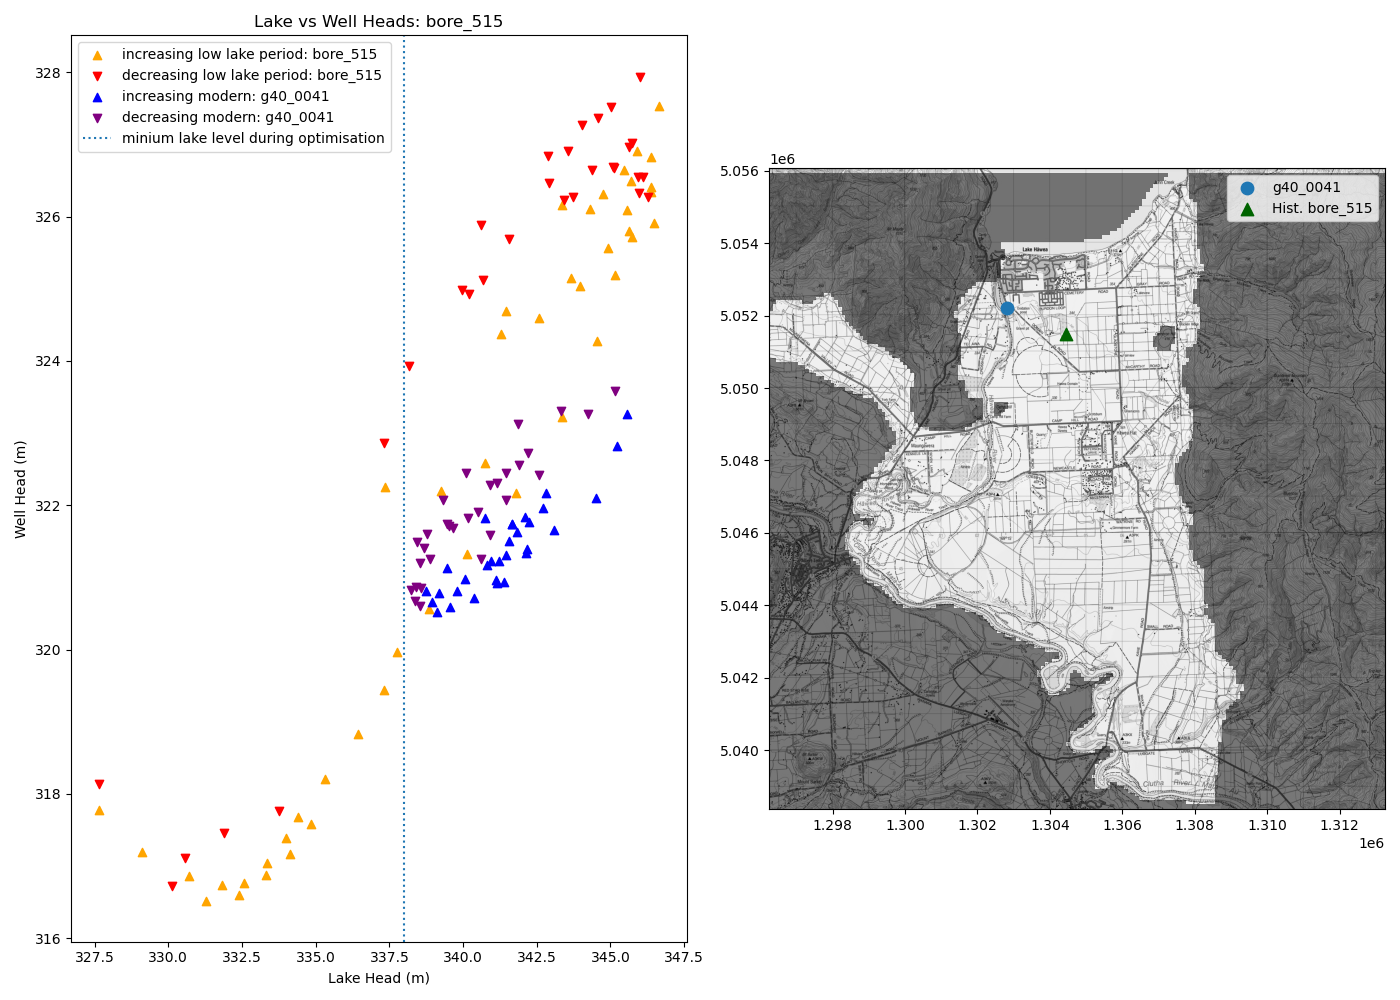
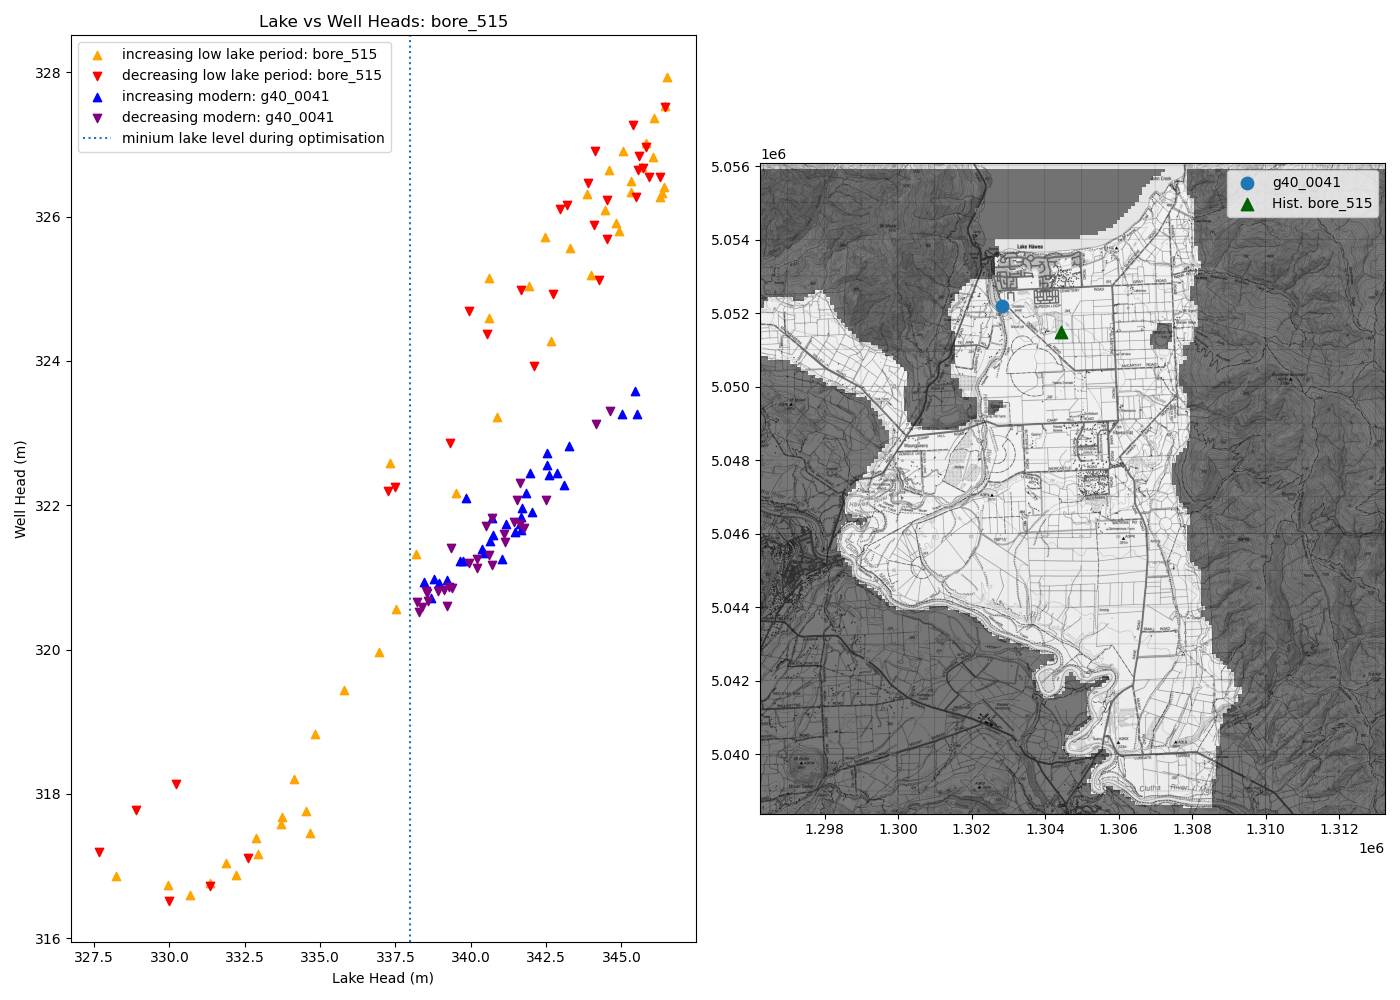
write up most of the document

diff --git a/historical_investigation/plot_historical_data.py b/historical_investigation/plot_historical_data.py
@@ -14,7 +14,8 @@ from optimisation.optimisation_period import tdis as tdis_opt
 from targets_and_sensitive_sites.get_raw_target_data import get_high_freq_head_targets
 from model_build.utils import get_colors
 from historical_investigation.get_historical_data import get_historical_well_heads, get_historical_data_locs, \
-    get_historical_lake_heads, historical_well_names, historical_well_colors, get_model_period_hds, historical_time_start, historical_time_end
+    get_historical_lake_heads, historical_well_names, historical_well_colors, get_model_period_hds, \
+    historical_time_start, historical_time_end
 from model_build.project_model_tools import smt
 from model_build.supporting_data_analysis import get_lake_heads
 
@@ -125,7 +126,9 @@ def plot_raw_historic():
         useoutdir.mkdir(exist_ok=True)
         fig.savefig(useoutdir.joinpath(f'{site}_hds.png'))
 
+
 def plot_lake_v_hds_nearest_modern():
+    from historical_investigation.shift_diff import use_shifts
     outdir = historical_figure_dir.joinpath('lake_v_hds_nearest_modern')
     outdir.mkdir(exist_ok=True)
     nearest_well = {
@@ -135,8 +138,10 @@ def plot_lake_v_hds_nearest_modern():
         'bore_515': 'g40_0041',
         'bore_butterfields': 'g40_0367',
     }
-    lake = get_lake_heads('1976-01-01', tdis_opt.date_limits[-1])
+    lake_org = get_lake_heads('1976-01-01', tdis_opt.date_limits[-1])
     for site in historical_well_names:
+        lake = lake_org.copy()
+        lake.index = lake.index + pd.Timedelta(days=use_shifts[site])
         near_site = nearest_well[site]
         fig, (ax, axloc) = plt.subplots(ncols=2, figsize=(14, 10))
         add_locator_to_ax(axloc, [site, near_site], False)
@@ -172,12 +177,14 @@ def plot_lake_v_hds_nearest_modern():
         plt.close(fig)
 
 
-
 def plot_lake_v_hds_modelled():
     outdir = historical_figure_dir.joinpath('lake_v_hds_modelled')
     outdir.mkdir(exist_ok=True)
-    lake = get_lake_heads('1976-01-01', tdis_opt.date_limits[-1])
+    lake_org = get_lake_heads('1976-01-01', tdis_opt.date_limits[-1])
+    from historical_investigation.shift_diff import use_shifts
     for site in historical_well_names:
+        lake = lake_org.copy()
+        lake.index = lake.index + pd.Timedelta(days=use_shifts[site])
         fig, (ax, axloc) = plt.subplots(ncols=2, figsize=(14, 10))
         add_locator_to_ax(axloc, [site], False)
         historical = pd.DataFrame(get_historical_well_heads(site))
@@ -199,14 +206,79 @@ def plot_lake_v_hds_modelled():
         ax.scatter(historical.loc[~historical.increasing, 'lake'], historical.loc[~historical.increasing, 'head'],
                    color='red', label=f'decreasing low lake period: {site}', marker='v')
         ax.scatter(modern.loc[modern.increasing, 'lake'], modern.loc[modern.increasing, site], color='blue',
-                   label=f'increasing modern', marker='^')
+                   label=f'increasing modern modelled', marker='^')
         ax.scatter(modern.loc[~modern.increasing, 'lake'], modern.loc[~modern.increasing, site], color='purple',
-                   label=f'decreasing modern', marker='v')
+                   label=f'decreasing modern modelled', marker='v')
         ax.axvline(min_lake, ls=':', label='minium lake level during optimisation')
         ax.legend()
         ax.set_xlabel('Lake Head (m)')
         ax.set_ylabel('Well Head (m)')
         ax.set_title(f'Lake vs Well Heads: {site}')
+        fig.tight_layout()
+        fig.savefig(outdir.joinpath(f'{site}_lake_v_hds.png'))
+        plt.close(fig)
+
+
+def plot_lake_v_hds_historic():
+    outdir = historical_figure_dir.joinpath('lake_v_hds_historic_only')
+    outdir.mkdir(exist_ok=True)
+    lake_org = get_lake_heads('1976-01-01', tdis_opt.date_limits[-1])
+    from historical_investigation.shift_diff import use_shifts
+    for site in historical_well_names:
+        lake = lake_org.copy()
+        lake.index = lake.index + pd.Timedelta(days=use_shifts[site])
+        fig = plt.figure(figsize=(14, 9))
+        gs = gridspec.GridSpec(2, 2, width_ratios=(1.5, 1), height_ratios=(1, 2))
+        ax_loc = fig.add_subplot(gs[1, 1])
+        ax_lake = fig.add_subplot(gs[0, 1])
+        ax_first = fig.add_subplot(gs[0, 0])
+        ax_second = fig.add_subplot(gs[1, 0])
+        add_locator_to_ax(ax_loc, [site], False)
+        historical = pd.DataFrame(get_historical_well_heads(site))
+        historical['lake'] = lake.loc[historical.index]
+        historical = historical.loc[historical.lake <= 338]
+        modern = pd.DataFrame(get_model_period_hds(site).iloc[1:])
+        modern['lake'] = lake.loc[modern.index]
+        min_lake = modern.lake.min()
+
+        num_days = 1
+        historical = historical.rolling(num_days).mean()
+        historical = historical.resample(f'{num_days}D').mean()
+
+        historical['increasing'] = (historical['head'].diff(1) > 0)
+        datelimits = [
+            pd.to_datetime(['1976-11-01', '1977-07-20']) + pd.Timedelta(days=use_shifts[site]),
+            pd.to_datetime(['1977-09-01', '1979-01-01']) + pd.Timedelta(days=use_shifts[site]),
+        ]
+        labels = ['First recovery', 'Second recovery']
+        for ax, datlim, lab in zip([ax_first, ax_second], datelimits, labels):
+            ax_lake.axvspan(*datlim, color='k', alpha=0.1)
+            ax_lake.text(pd.Series(datlim).mean(), 345, lab, rotation=0, va='bottom', ha='center')
+            idx = (historical.index >= datlim[0]) & (historical.index <= datlim[1]) & historical.increasing
+            ax.plot(historical.loc[idx, 'lake'], historical.loc[idx, 'head'],
+                    color='orange', label=f'increasing low lake period: {site}')
+            ax.axvline(min_lake, ls=':', label='minium lake level during optimisation')
+            ax.legend()
+            ax.set_xlabel(f'Lake Head (m) shifted forward by {use_shifts[site]} days')
+            ax.set_ylabel('Well Head (m)')
+            ax.set_title(lab)
+
+        # lake axis
+        lake = lake.loc[lake.index <= datelimits[-1][1]]
+        ax_lake.plot(lake.index, lake, label='lake')
+        historical = get_historical_well_heads(site)
+        historical = historical.loc[historical.index <= datelimits[-1][1]]
+        ax_lake.plot(historical.index, historical, label='well', color=historical_well_colors[site])
+        ax_lake.set_ylabel(' Head (m)')
+        ax_lake.set_xlabel('Date')
+        ax_lake.legend()
+        ax_lake.set_xticks([2191., 2312., 2435., 2557., 2677., 2800., 2922., 3042., 3165.,
+                            3287.])
+
+        labs = ['1976-01', '1976-05', '1976-09', '1977-01', '1977-05', '1977-09', '1978-01', '1978-05', '1978-09',
+                '1979-01']
+        ax_lake.set_xticklabels(labs, rotation=-45)
+        fig.suptitle(f'Lake vs Well Heads: {site}')
         fig.tight_layout()
         fig.savefig(outdir.joinpath(f'{site}_lake_v_hds.png'))
         plt.close(fig)
@@ -220,14 +292,17 @@ def plot_lake_hds():
     ax.set_ylabel('Lake level (m)')
     ax.set_xlabel('Date')
     fig.tight_layout()
+    plt.show()
     fig.savefig(historical_figure_dir.joinpath('lake_heads.png'))
+
 
 if __name__ == '__main__':
     re_run = False
-    plot_raw_historic()
+    plot_lake_hds()
+    plot_lake_v_hds_historic()
     if re_run:
-        plot_lake_hds()
         plot_lake_v_hds_modelled()
         plot_lake_v_hds_nearest_modern()
+        plot_raw_historic()
         plot_head_locs()
         plot_model_period_hds()

diff --git a/historical_investigation/README.rst b/historical_investigation/README.rst
@@ -80,7 +80,7 @@ The historical appendix contains:
 * a contoured map which identifies the lake level where the groundwater level is unlikely to be affected by the lake level (figure reproduced below)
 * discussion and conclusions
 
-..figure:: ../historical_investigation/figures/historical_head_locs.png
+.. figure:: ../historical_investigation/figures/historical_head_locs.png
    :height: 650 px
    :align: center
 
@@ -172,16 +172,67 @@ The digitised groundwater levels were plotted against the available lake level r
 
 Smoothed Extrema matching
 ---------------------------
-#todo well lake extrema
 
+To understand the shift between the observed groundwater level local minima and maxima and the observed lake level local minima and maxima we conducted an extrema matching process.  Briefly we first smoothed the observed groundwater and lake level data using a centered 100 day moving window.  This process removes much of the noise while leaving the system relative minima/maxima intact. We then calculated the period between each lake level local minima and maxima and the next nearest groundwater level local minima and maxima, respectively.  The results are shown below.  In most signals there are minima and maxima that do not correlate well, likely due to other influances in the groundwater system.  Never the less we identified the likely lag between changes in lake level and each historic bore as approximately:
+
+* bore_13: 26 days
+* bore_315: 21 days
+* bore_513: 45 days
+* bore_515: 45 days
+* bore_butterfields: 71 days
+
+.. figure:: ../historical_investigation/figures/well_lake_extrema/bore_13_extrema.png
+   :height: 650 px
+   :align: center
+
+.. class:: centered
+
+    *Figure: Observed groundwater level response to historic lake level variations at bore 13.*
+
+.. figure:: ../historical_investigation/figures/well_lake_extrema/bore_315_extrema.png
+    :height: 650 px
+    :align: center
+
+.. class:: centered
+
+        *Figure: Observed groundwater level response to historic lake level variations at bore 315.*
+
+.. figure:: ../historical_investigation/figures/well_lake_extrema/bore_513_extrema.png
+    :height: 650 px
+    :align: center
+
+.. class:: centered
+
+        *Figure: Observed groundwater level response to historic lake level variations at bore 513.*
+
+.. figure:: ../historical_investigation/figures/well_lake_extrema/bore_515_extrema.png
+    :height: 650 px
+    :align: center
+
+.. class:: centered
+
+        *Figure: Observed groundwater level response to historic lake level variations at bore 515.*
+
+.. figure:: ../historical_investigation/figures/well_lake_extrema/bore_butterfields_extrema.png
+    :height: 650 px
+    :align: center
+
+.. class:: centered
+
+        *Figure: Observed groundwater level response to historic lake level variations at bore butterfields.*
 
 Lake and Groundwater level data comparison
 --------------------------------------------
-#todo  lake_v_hds_[nearest|modelled]
 
-Shifted level comparison
----------------------------
-# todo well_lake_delta
+We compared the shifted (see above) observed lake levels and groundwater level data for the recovery (only where the groundwater levels are increasing) periods in 1977 and 1978.  The results at Bore 315 are the most useful and are shown below.  In the first recovery there is a clear slope change when the shifted Lake Hawea level reaches 332 m msl. This slope change is also evident in the second recovery, but is less clear. we suggest that the increases in groundwater levels while the shifted lake levels are below 332 m msl are due to other influences in the groundwater system.  We suggest that the groundwater level response to lake level variations is only evident when the shifted lake levels are above 332 m msl.
+
+.. figure:: ../historical_investigation/figures/lake_v_hds_historic_only/bore_315_lake_v_hds.png
+   :height: 650 px
+   :align: center
+
+.. class:: centered
+
+    *Figure: Observed groundwater level response to historic lake level variations at bore 315.*
 
 
 Simple smoothing model
@@ -234,9 +285,21 @@ In addition, we trained the simple smoothing model on the historical bore data (
         *Figure: Bespoke simple smoothing model trained on bore butterfields.*
 
 
-Simple smoothing model results and discussion
-^^^^^^^^^^^^^^^^^^^^^^^^^^^^^^^^^^^^^^^^^^^^^^^^^
-# todo
+Re-analysis discussion
+-------------------------
+Our re-analysis finds:
+
+* that the lake level impacts in the historical bores are likely lagged behind the observed lake level variations by:
+    * bore_13: 26 days
+    * bore_315: 21 days
+    * bore_513: 45 days
+    * bore_515: 45 days
+    * bore_butterfields: 71 days
+* shifted lake levels in comparison to Bore 315 groundwater levels show a clear slope change when the shifted lake levels reach 332 m msl. This slope change is also evident in the second recovery, but is less clear. we suggest that the increases in groundwater levels while the shifted lake levels are below 332 m msl are due to other influences in the groundwater system. This suggests that the critical level for disconnection between the groundwater and lake system is 332 m msl. Note that this is higher than the historical analysis suggests (329.6 m msl).
+* The simple smoothing model developed for bore G40/0415 is able to match the observed groundwater level response to lake level variations at the nearby historical Bore 315, but includes some bias.
+* The bespoke simple smoothing models do a good matching the groundwater elevations at the historical bores after 1979-03-01 (once Lake Hawea levels returned to their normal operational range).
+* the bespoke simple smoothing model for bore 315 under estimates the groundwater elevation significantly during the first low lake period (1976-1977), but adequately matches the groundwater elevation during the second low lake period (1977-1979).  In the first period the lake was below 332m msl for 7 months, and below 330m msl for 4 months.  In the second low period the lake was below 332m for 5 months and below 330m msl for just over 3 weeks. The second low period is shorter than the fit model's smoothing period of 203 days (c. 6 months), which explains why the simple smoothing model does not show deviation too far from the observed groundwater levels despite lake levels that obviously fell below the cutoff elevation. This analysis does not disagree with an cutoff level between 330 and 332 m msl.
+* the bespoke simple smoothing models at bores 515 and butterfields overestimate the groundwater elevation rather than underestimate as we would expect. This suggests that the discontinuity between the lake and the groundwater levels may be obscured by the smoothing of lake levels (e.g. via storage) and/or other processes. Therefore we disagree with the Ministry of Works conclusion that different elements of the system become disconnected from Lake Hawea at different lake levels. That conclusion is not uniquely supported by the data and is conceptually/structurally difficult to explain.
 
 Model performance during Historic Low Lake levels
 ==================================================
@@ -431,14 +494,29 @@ Note we have only presented the lake drop 320 results here, but the results for 
 
 Model performance discussion
 -----------------------------
+
 # todo
 
 Conclusions and Recommendations
 ==================================
 
+Our conclusions are:
+
+* The Ministry of Works data provides essential information on the Lake Hawea system
+* The new data confirms the key modelling prediction that there is some level below which the lake becomes disconnected from the groundwater system.
+* The prior information suggested that the bottom elevation of the impermeable moraine was likely to be approximately 320 m msl and that the top of the impermeable moraine was likely between 327.6 - 338 m msl.  The new data further constrains the likely elevation of the top of the impermeable moraine to be between 330 and 332 m msl.
+* Given the impact of the lake level on the groundwater system we recommend that the lake level is maintained above a minimum elevation of 333 m msl to ensure that the groundwater system is not disconnected from the lake. This suggestion should not be seen as conclusive evidence to reset the current Lake Hawea consent conditions, but rather as an absolute minimum level below which the lake should not be allowed to fall even in extraordinary circumstances. As always should Lake levels fall below the current minimum level (338 m msl) the groundwater system should be closely monitored.
+* These results do not discredit the recommended  additional datasets (see `model optimisation readme <../optimisation/README.rst#recommended-additional-data>`_) as they are required to further constrain the model structure and to improve the model performance; however the results do increase the confidence in the implemented model and conceptual structure.
+* # todo model stuff.
+
+Our recommendations from this work are:
+* Despite the adequate performance of the model, we would strongly suggest re-optimising the model and including targets for the period 1976-01-01 to 1983-01-01.
+* Given the relative insensitivity of the invert level, we would suggest conducting formal parameter and structural uncertainly analysis to better understand the range of predictions.
+* These results further support the need for a high frequency monitoring well near the Northeast Corner of the Hawea Flat aquifer (see `model optimisation readme <../optimisation/README.rst#recommended-additional-data>`_).
+
 Dataset and Resources
 =======================
-# explain the data in the base_data, figures, and generated_data folders
+# todo explain the data in the base_data, figures, and generated_data folders
 
 
 Top readme addtiions
